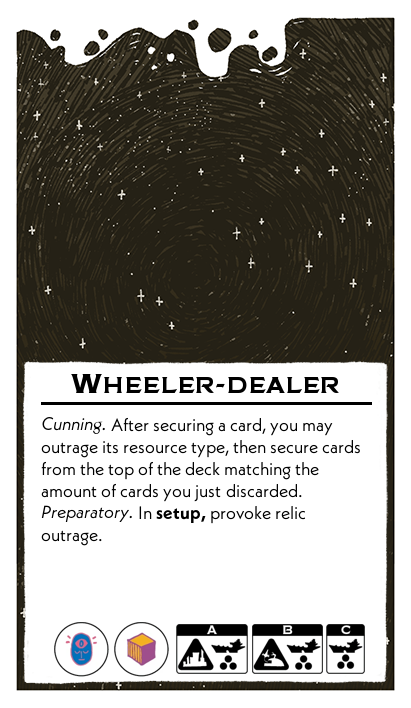
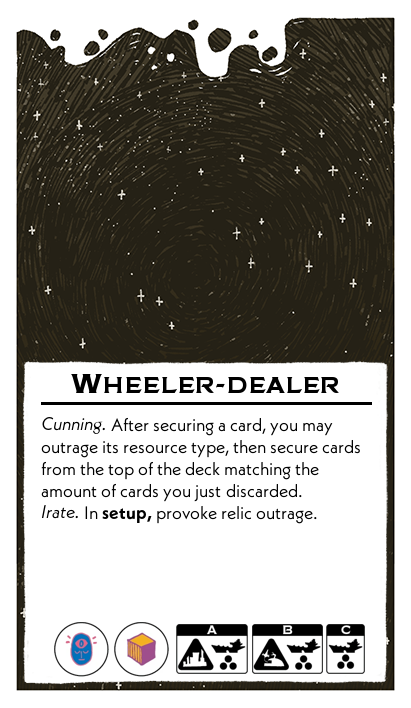
wd fix

Changed region(s): [[0.0876, 0.7147, 0.7591, 0.7768]]

diff --git a/scripts/leadersFormatted.py b/scripts/leadersFormatted.py
@@ -645,7 +645,7 @@ leaders = [
         "name": "Wheeler-dealer",
         "abilities": (
             "*Cunning.* After securing a card, you may outrage its resource type, then secure cards from the top of the deck matching the amount of cards you just discarded.\n"
-            "*Preparatory.* In **setup,** provoke relic outrage."
+            "*Irate.* In **setup,** provoke relic outrage."
         ),
         "resources": ["Psionic", "Material"],
         "setup": {
